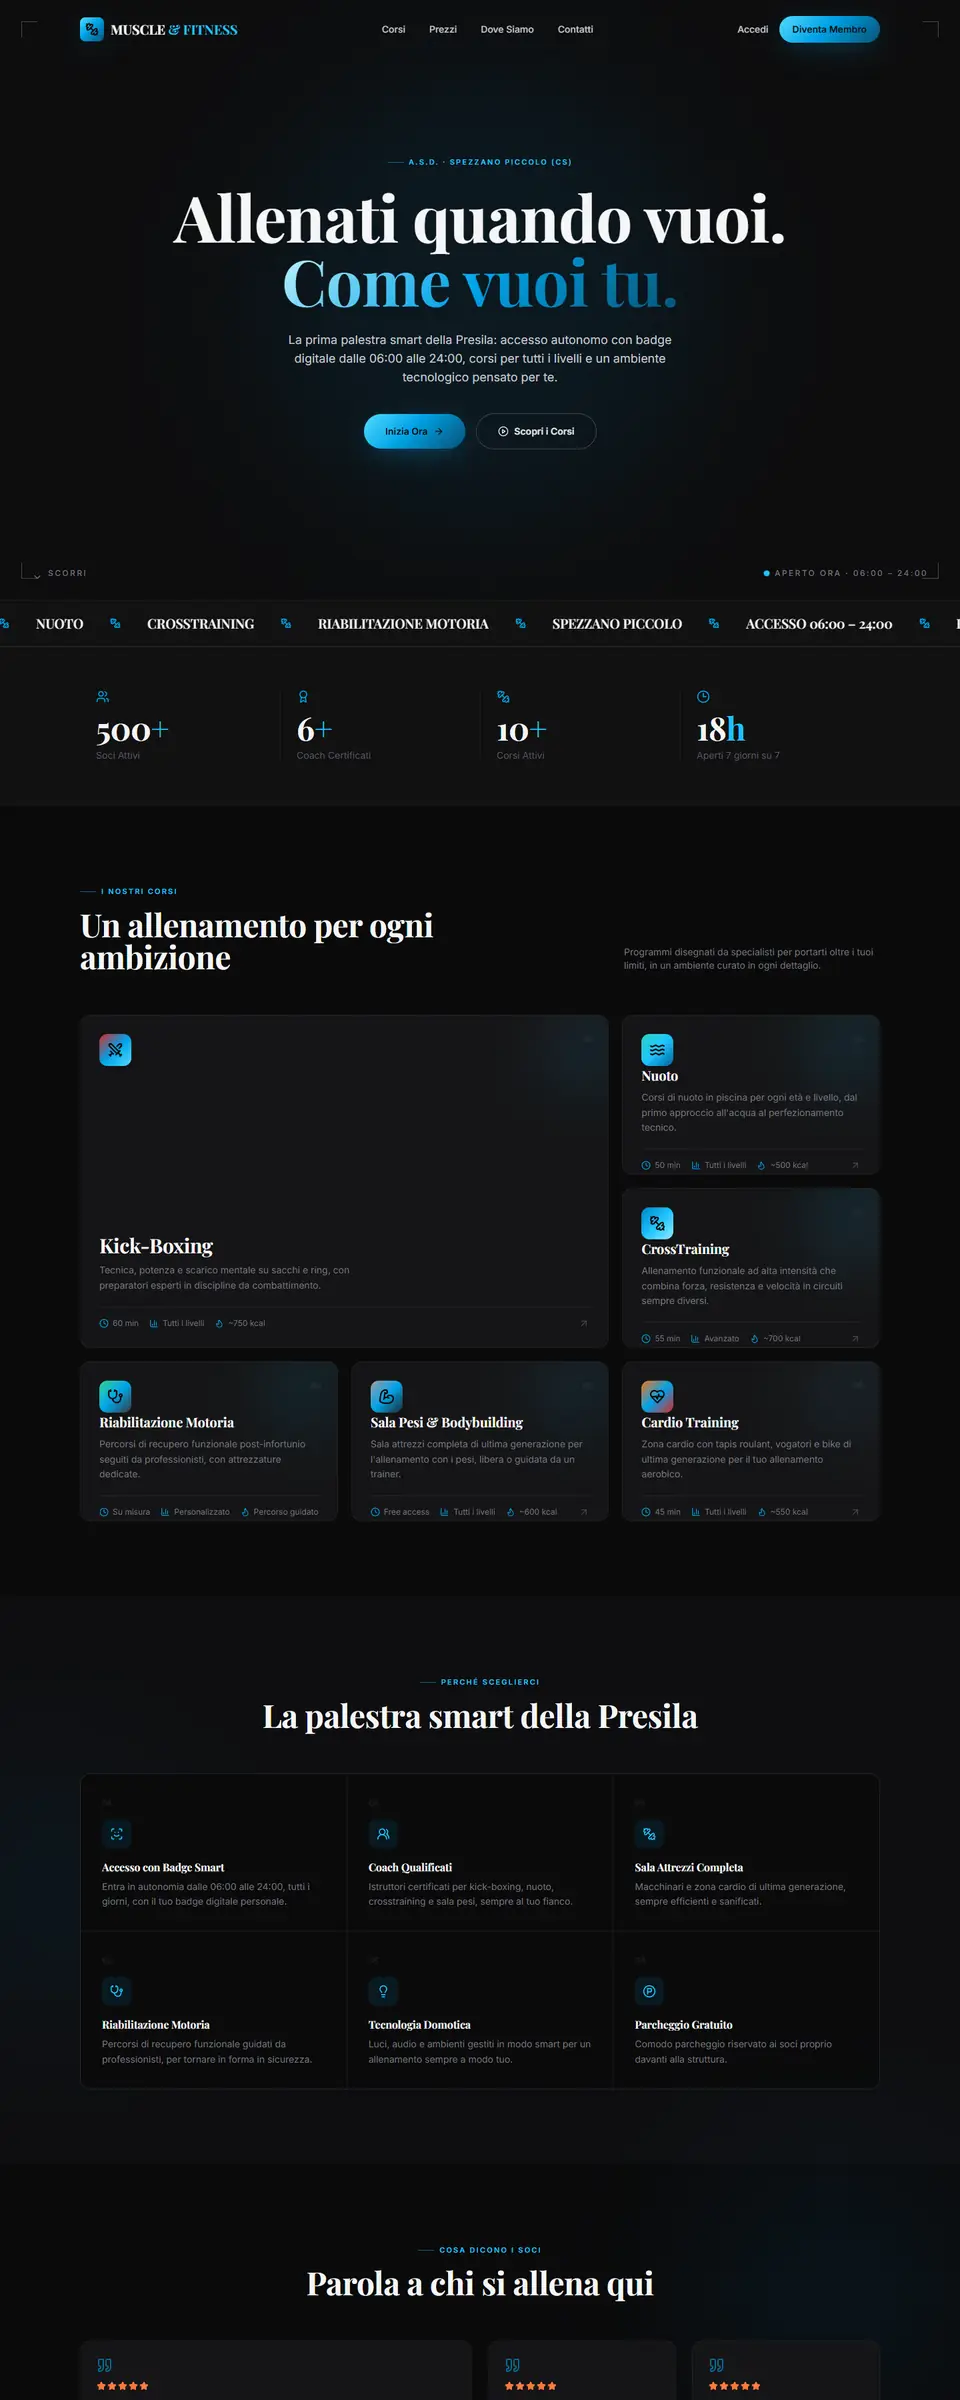
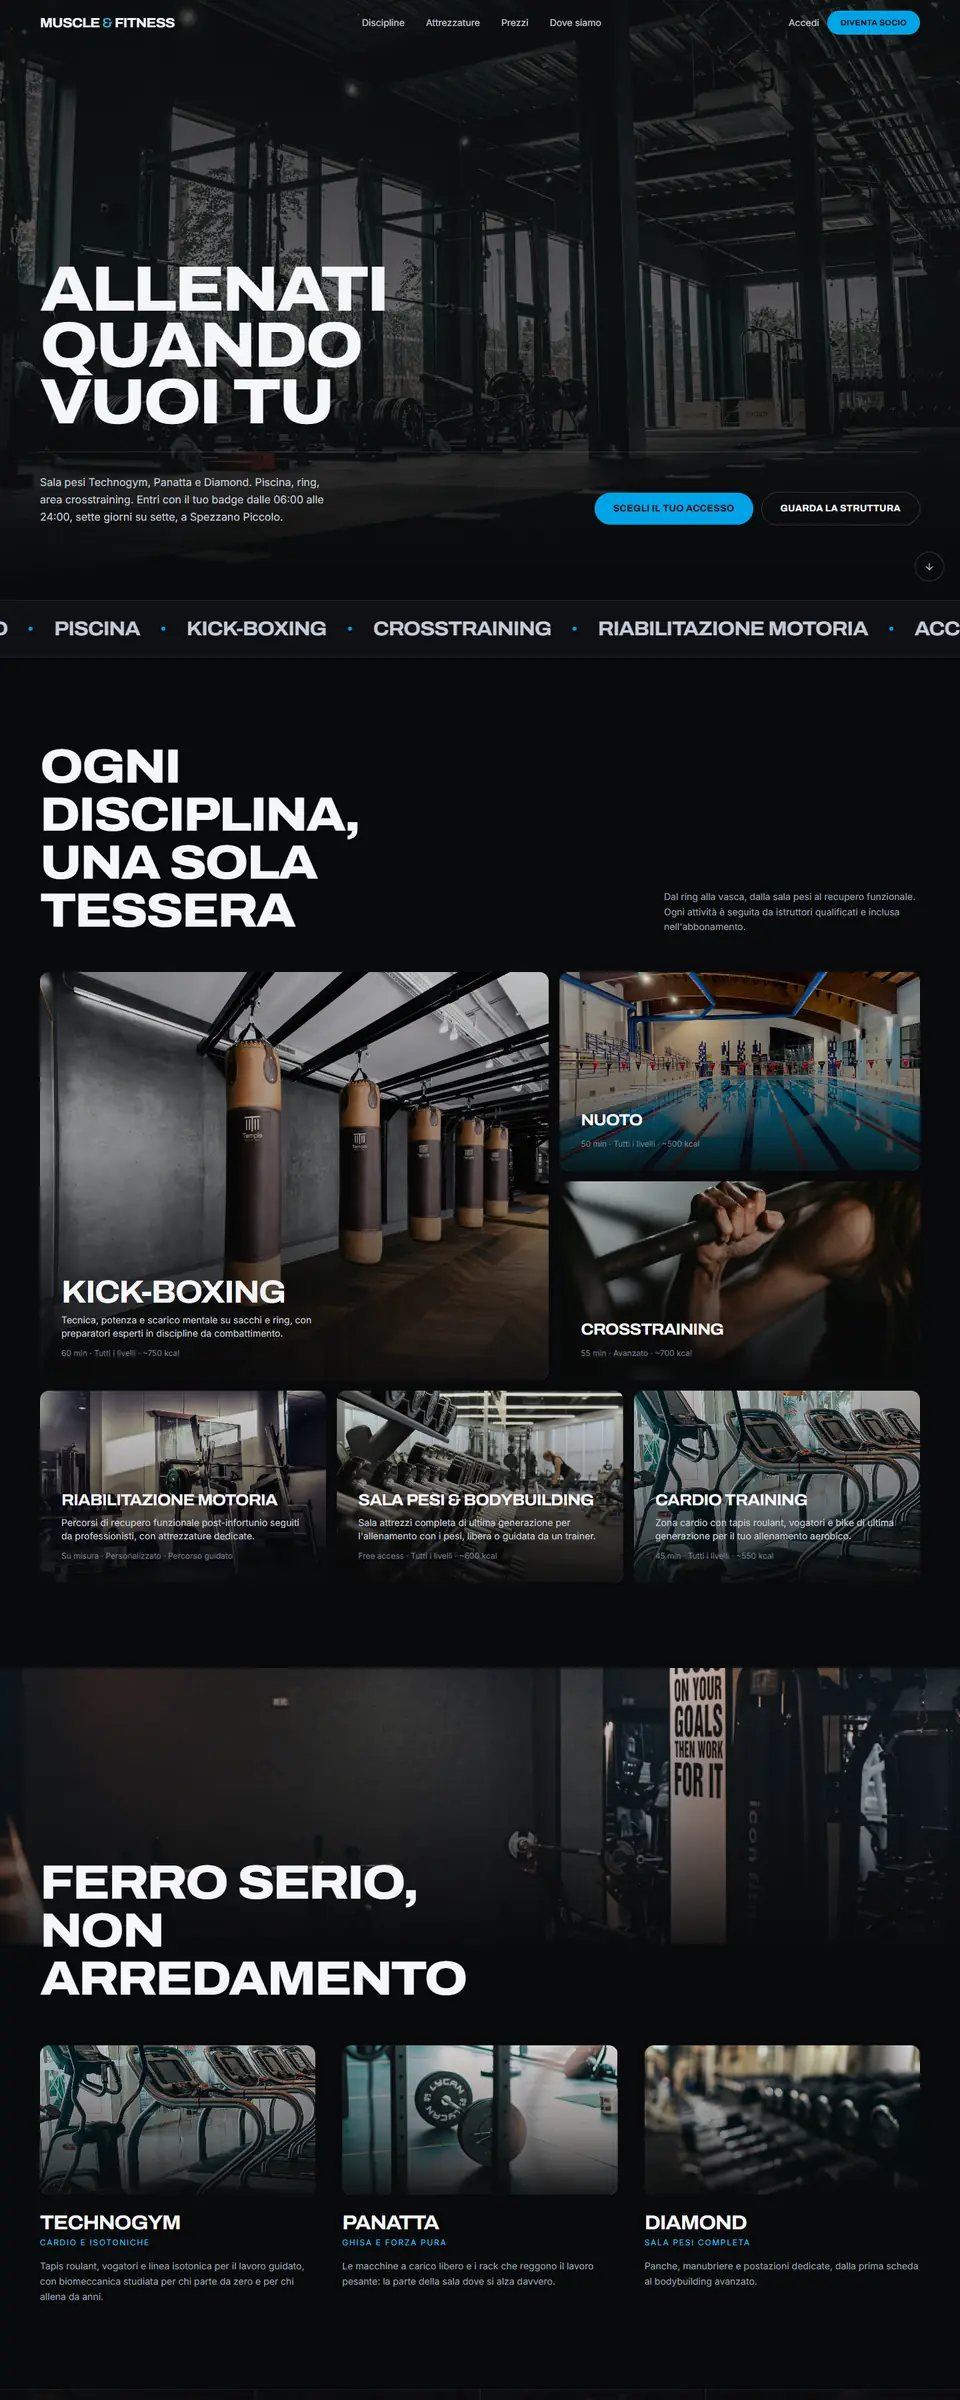
Muscle & Fitness e GoldenStay online: pulsanti Visit, repo e nuove schermate
- Muscle & Fitness: galleria rifatta dal sito ridisegnato su Vercel
  (discipline, attrezzature, abbonamenti, mobile), link al sito e al repo
  Gym-WebSite, descrizione allineata alle nuove sezioni.
- GoldenStay: link a goldenstay.vercel.app e al repo Matteoiazz/GoldenStay.

diff --git a/lib/portfolio-data.ts b/lib/portfolio-data.ts
@@ -66,7 +66,8 @@ export const projects: Project[] = [
       "Frontend Angular organizzato per funzionalità, con guard sulle rotte dell'area riservata e ricevuta generata in PDF con jsPDF",
     ],
     stack: ["Angular", "TypeScript", "Spring Boot", "Java", "PostgreSQL"],
-    repo: "https://github.com/piergully/GoldenStay",
+    repo: "https://github.com/Matteoiazz/GoldenStay",
+    demo: "https://goldenstay.vercel.app",
     cover: {
       src: "/projects/goldenstay/cover.webp",
       alt: "Home di GoldenStay: la struttura sul mare al tramonto e il modulo di ricerca per date e ospiti",
@@ -160,32 +161,40 @@ export const projects: Project[] = [
     team: "Progetto personale",
     tagline: "Sito per una palestra smart con area soci: abbonamenti, badge QR e certificati medici.",
     description:
-      "Sito per la palestra A.S.D. Muscle & Fitness di Spezzano Piccolo, con un'area riservata ai soci e un pannello di amministrazione. Dalla home si scoprono corsi e abbonamenti e si acquista il piano dal checkout, con pagamento simulato. Il socio ritrova nella dashboard il badge QR per entrare, lo stato dell'abbonamento, il certificato medico e lo storico delle attività: l'ingresso è consentito solo con un accesso valido e un certificato approvato. L'amministratore gestisce gli iscritti, approva o rifiuta i certificati e consulta le statistiche.",
+      "Sito per la palestra A.S.D. Muscle & Fitness di Spezzano Piccolo, con un'area riservata ai soci e un pannello di amministrazione. Dalla home si scoprono discipline, attrezzature e abbonamenti e si acquista il piano dal checkout, con pagamento simulato. Il socio ritrova nella dashboard il badge QR per entrare, lo stato dell'abbonamento, il certificato medico e lo storico delle attività: l'ingresso è consentito solo con un accesso valido e un certificato approvato. L'amministratore gestisce gli iscritti, approva o rifiuta i certificati e consulta le statistiche.",
     highlights: [
-      "API Express con autenticazione JWT, password cifrate con bcrypt, rate limiting su login e registrazione, header di sicurezza con Helmet",
+      "API Express con autenticazione JWT, password cifrate con bcrypt, rate limiting sulle rotte sensibili e Helmet; sul deploy Vercel header di sicurezza come CSP e HSTS",
       "Validazione degli input con Zod e upload dei certificati che verifica il tipo reale del file, non solo l'estensione",
       "Dati con Prisma su SQLite: utenti, abbonamenti con rinnovo e disdetta, certificati e storico delle attività",
       "Frontend React con Vite, Tailwind CSS e Framer Motion, con rotte protette per soci e amministratori",
     ],
     stack: ["React", "Vite", "Tailwind CSS", "Node.js", "Express", "Prisma", "SQLite"],
+    repo: "https://github.com/Matteoiazz/Gym-WebSite",
+    demo: "https://muscleefitness.vercel.app",
     cover: {
       src: "/projects/muscle-fitness/cover.webp",
-      alt: "Home del sito Muscle & Fitness con il titolo Allenati quando vuoi. Come vuoi tu.",
+      alt: "Home del sito Muscle & Fitness: il titolo Allenati quando vuoi tu sopra la foto della sala pesi",
       caption: "Home",
       frame: "browser",
     },
     coverTall: "/projects/muscle-fitness/cover-tall.webp",
     gallery: [
       {
-        src: "/projects/muscle-fitness/abbonamenti.webp",
-        alt: "Sezione abbonamenti con ingresso singolo, piano mensile e annuale",
-        caption: "Abbonamenti e prezzi",
+        src: "/projects/muscle-fitness/discipline.webp",
+        alt: "Griglia delle discipline con kick-boxing, nuoto, crosstraining, riabilitazione, sala pesi e cardio",
+        caption: "Discipline incluse nell'abbonamento",
         frame: "browser",
       },
       {
-        src: "/projects/muscle-fitness/servizi.webp",
-        alt: "Sezione Perché sceglierci con i servizi della palestra",
-        caption: "Servizi della palestra",
+        src: "/projects/muscle-fitness/attrezzature.webp",
+        alt: "Sezione Ferro serio, non arredamento con le attrezzature Technogym, Panatta e Diamond",
+        caption: "Attrezzature della sala",
+        frame: "browser",
+      },
+      {
+        src: "/projects/muscle-fitness/abbonamenti.webp",
+        alt: "Sezione Un prezzo, tutta la struttura con ingresso singolo, piano mensile e annuale",
+        caption: "Abbonamenti e prezzi",
         frame: "browser",
       },
       {
